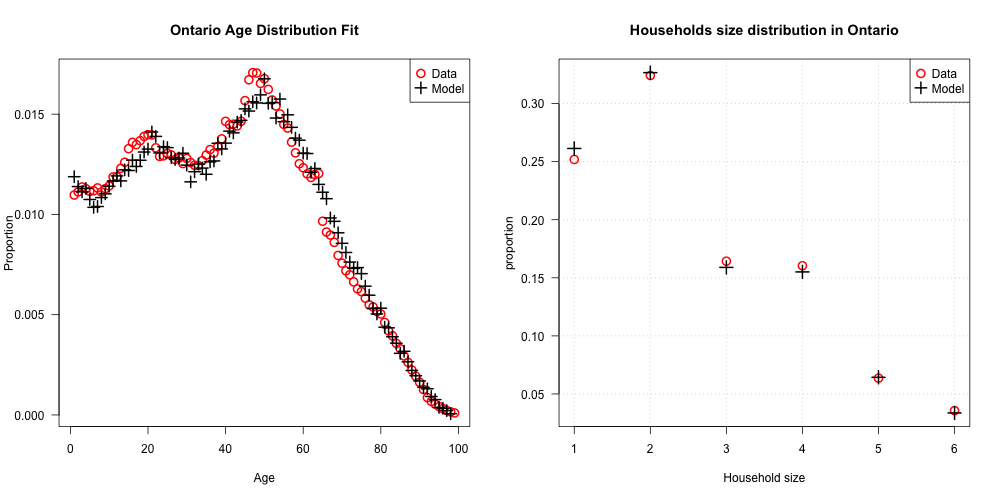
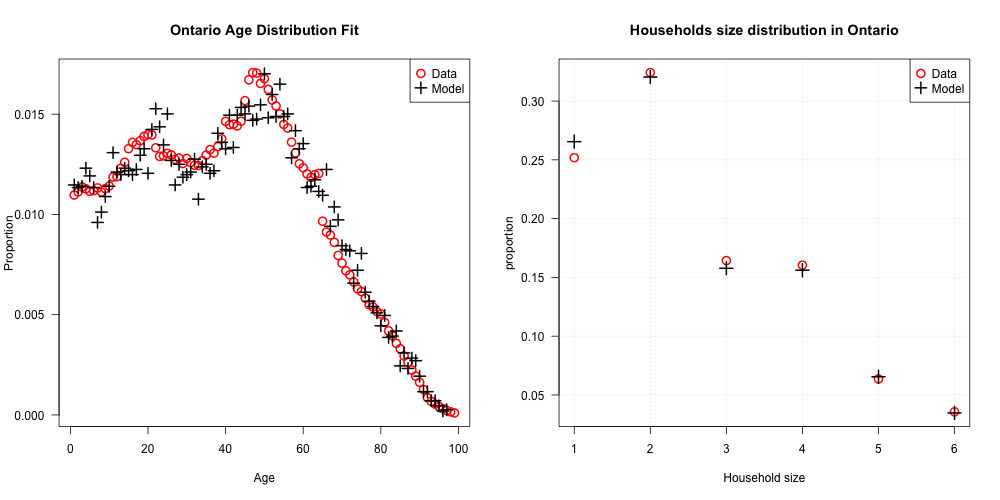
increase granularity of age contact ratio

diff --git a/src/Rwrap.cpp b/src/Rwrap.cpp
@@ -191,6 +191,8 @@ List naf_run_det(List params,
 		
 		set_parameter(MP, "contact_ratio_age_1_10",        "double", params);
 		set_parameter(MP, "contact_ratio_age_10_16",       "double", params);
+		set_parameter(MP, "contact_ratio_age_16_25",       "double", params);
+		set_parameter(MP, "contact_ratio_age_25_40",       "double", params);
 		set_parameter(MP, "contact_ratio_age_over_65",     "double", params);
 		set_parameter(MP, "contact_ratio_sp_household",    "double", params);
 		set_parameter(MP, "contact_ratio_sp_pubTransport", "double", params);
@@ -558,6 +560,8 @@ List naf_run(List params,
         set_parameter(MP, "contact_rate_stddev",           "double", params);
         set_parameter(MP, "contact_ratio_age_1_10",        "double", params);
         set_parameter(MP, "contact_ratio_age_10_16",       "double", params);
+		set_parameter(MP, "contact_ratio_age_16_25",       "double", params);
+		set_parameter(MP, "contact_ratio_age_25_40",       "double", params);
         set_parameter(MP, "contact_ratio_age_over_65",     "double", params);
         set_parameter(MP, "contact_ratio_sp_household",    "double", params);
         set_parameter(MP, "contact_ratio_sp_pubTransport", "double", params);

diff --git a/src/simulator.cpp b/src/simulator.cpp
@@ -1486,6 +1486,8 @@ double Simulator::select_contact_rate_ratio(double age,
     // age:
     if (1 <   age && age < 10) ratio_indiv = ratio_indiv * _modelParam.get_prm_double("contact_ratio_age_1_10");
     if (10 <= age && age < 16) ratio_indiv = ratio_indiv * _modelParam.get_prm_double("contact_ratio_age_10_16");
+    if (16 <= age && age < 25) ratio_indiv = ratio_indiv * _modelParam.get_prm_double("contact_ratio_age_16_25");
+    if (25 <= age && age < 40) ratio_indiv = ratio_indiv * _modelParam.get_prm_double("contact_ratio_age_25_40");
     if (65 <= age)             ratio_indiv = ratio_indiv * _modelParam.get_prm_double("contact_ratio_age_over_65");
     
     // social place:

diff --git a/src/run.cpp b/src/run.cpp
@@ -74,6 +74,8 @@ void main_run(){
     
     MP.add_prm_double ("contact_ratio_age_1_10", 2.0);
     MP.add_prm_double ("contact_ratio_age_10_16", 1.5);
+    MP.add_prm_double ("contact_ratio_age_16_25", 2.4);
+    MP.add_prm_double ("contact_ratio_age_25_40", 2.1);
     MP.add_prm_double ("contact_ratio_age_over_65", 0.8);
     MP.add_prm_double ("contact_ratio_sp_household", 2.2);
     MP.add_prm_double ("contact_ratio_sp_pubTransport", 1.75);
